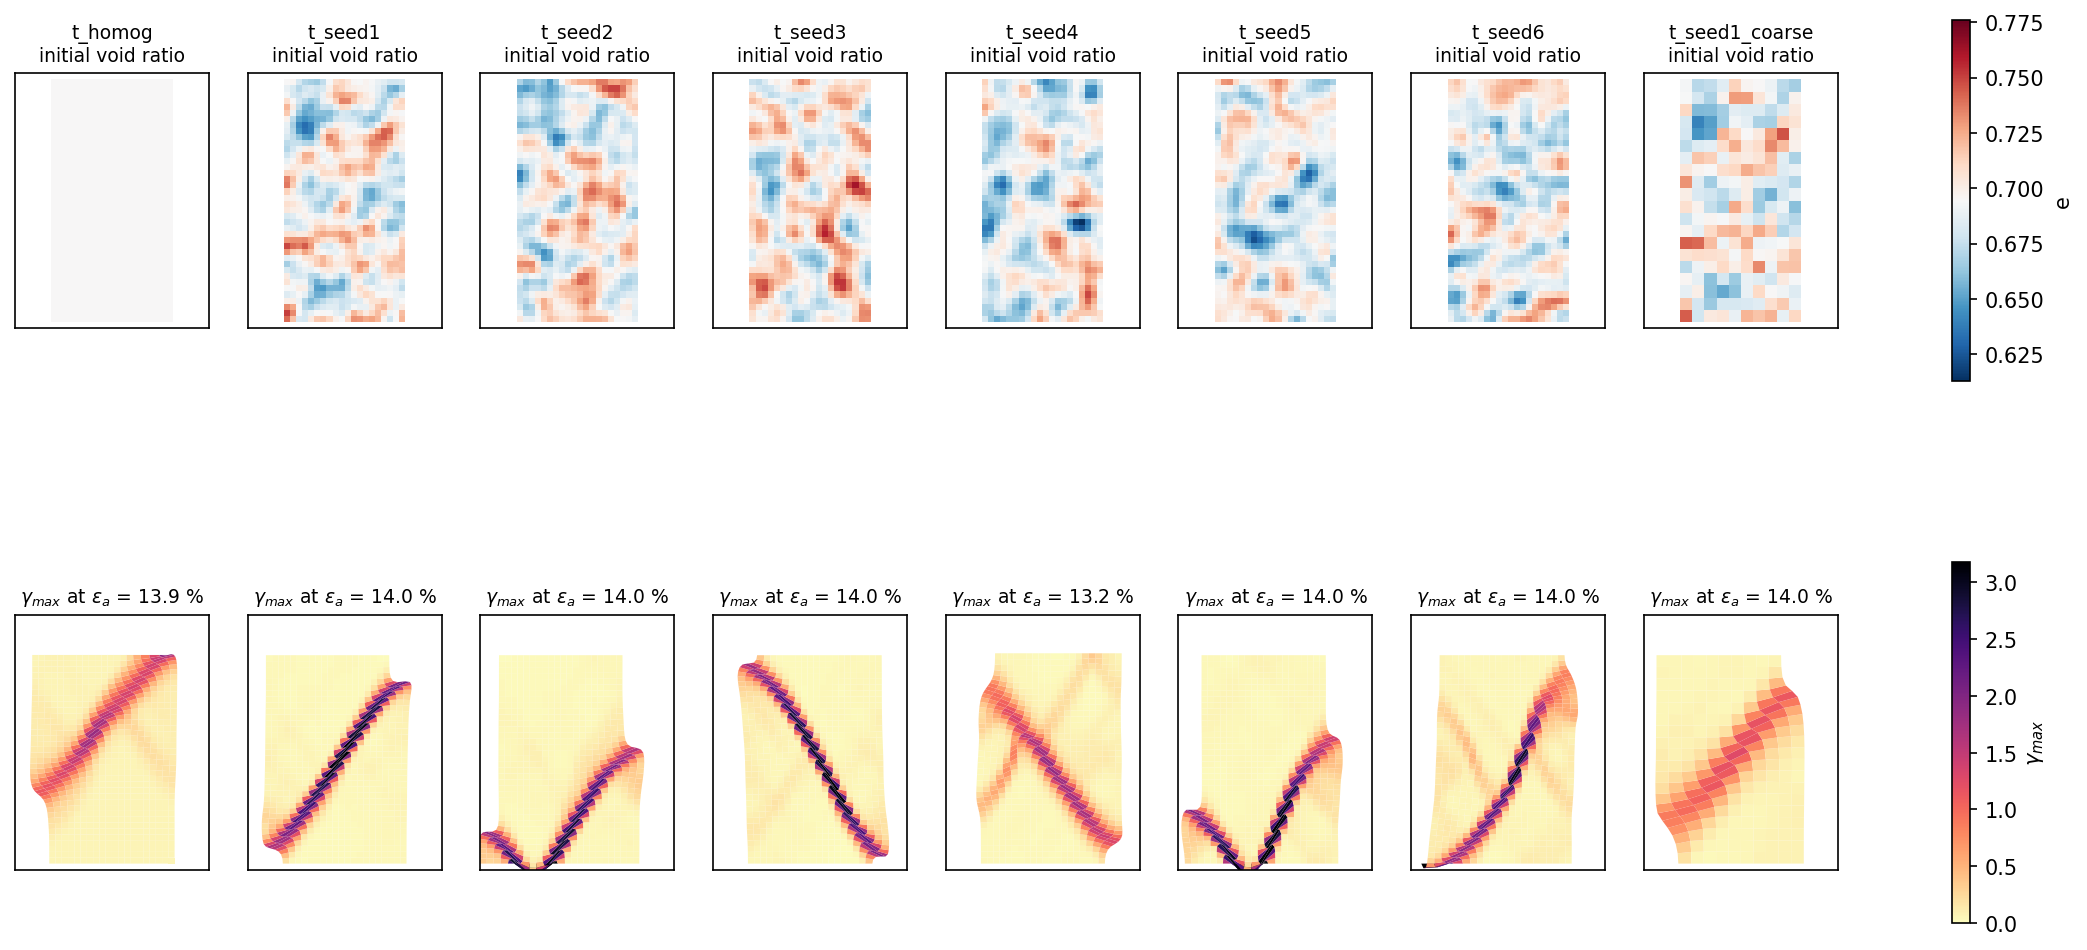
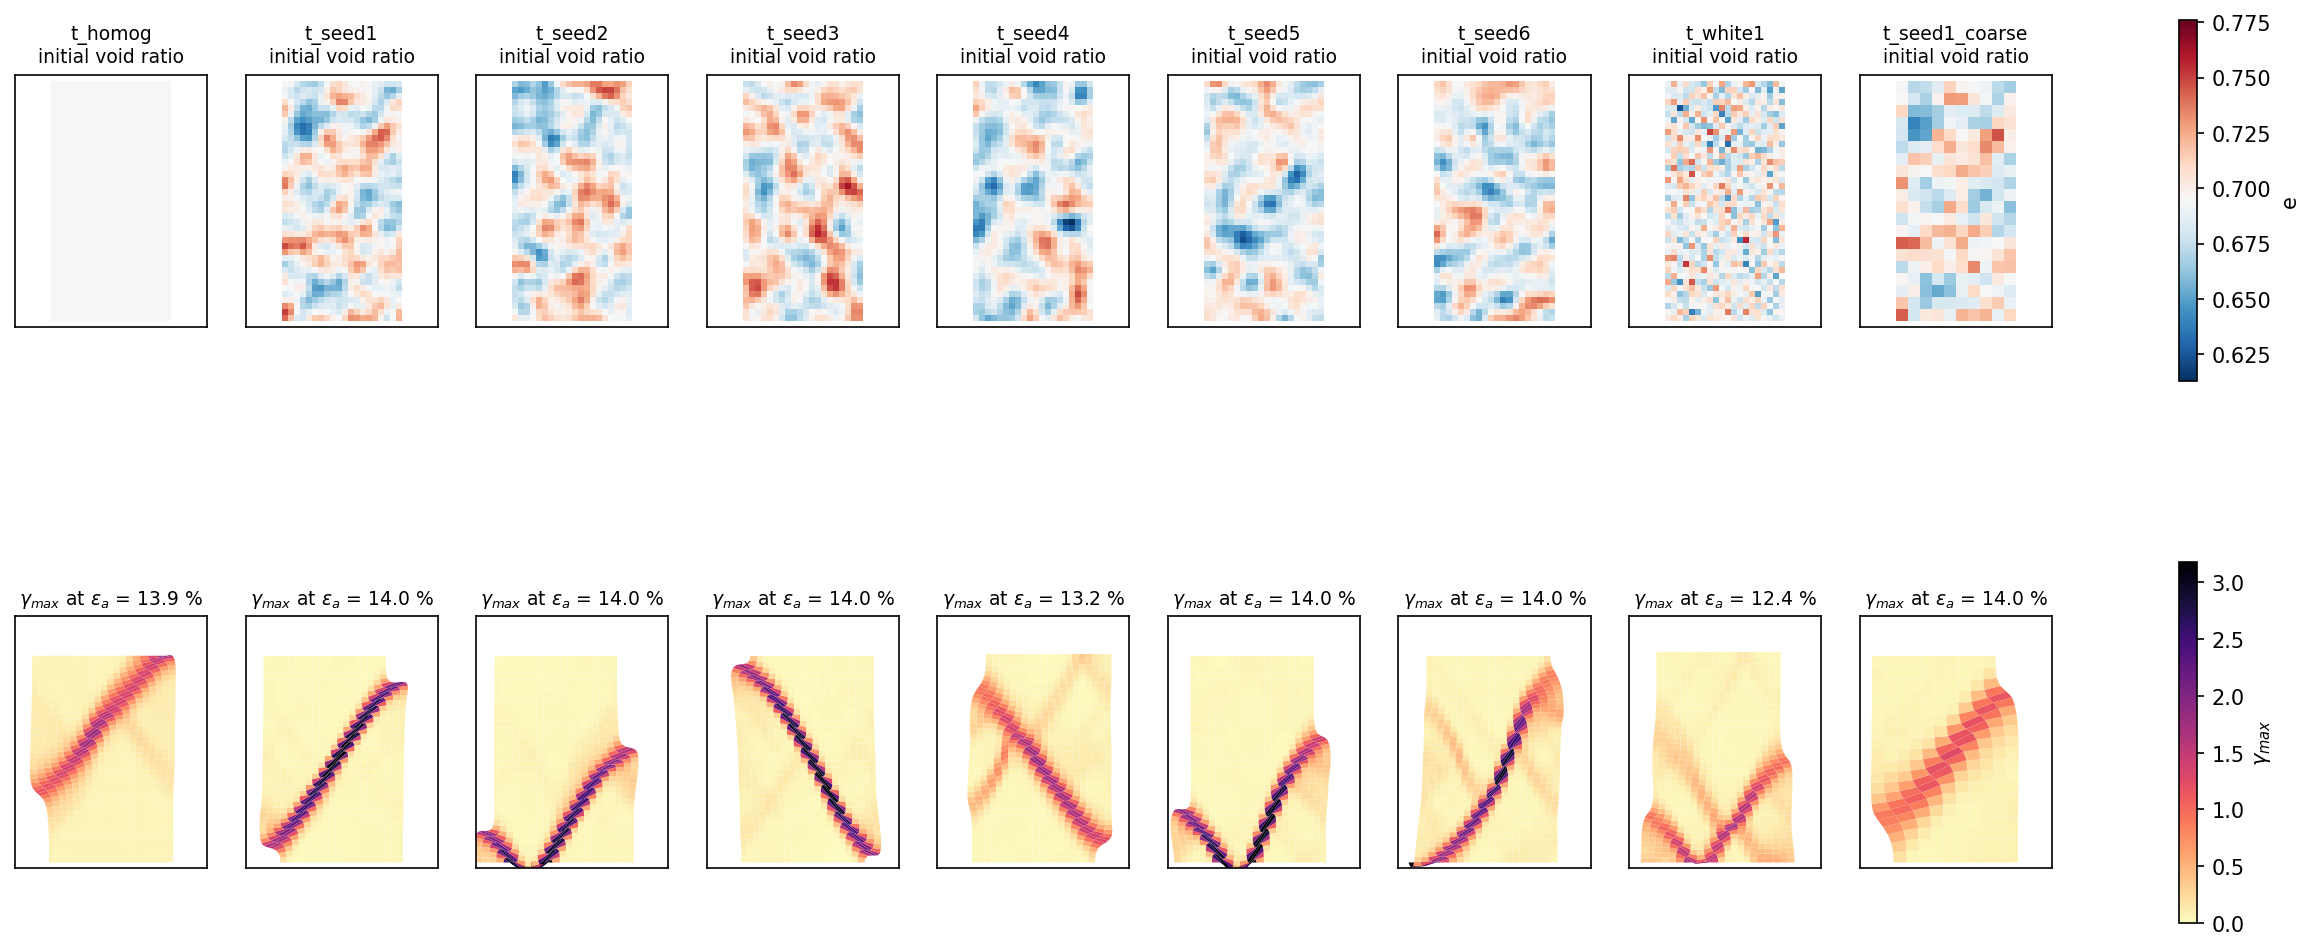
test(WP-238): biaxial post-peak, white-noise case added

diff --git a/Ladruno_files/testbed/sanisand_void_ratio_biaxial/README.md b/Ladruno_files/testbed/sanisand_void_ratio_biaxial/README.md
@@ -68,14 +68,15 @@ runs go through: `results/postpeak_bands.png`, `postpeak_curves.png`, `postpeak_
 | seed 4 | 20x40 | 675.2 | 4.85 | 551.7 | 13.21 (wall budget) | 57 | 143 / 116 |
 | seed 5 | 20x40 | 656.0 | 4.50 | 538.9 | 14.00 | 53 | 0 / 0 |
 | seed 6 | 20x40 | 689.8 | 3.91 | 565.7 | 14.00 | 77 | 0 / 0 |
+| white noise | 20x40 | 687.6 | 5.68 | 591.5 | 12.40 (wall budget) | 43 | 67 / 0 |
 | seed 1 | 10x20 | 742.1 | 5.47 | 671.2 | 14.00 | 4 | 0 / 0 |
 
-(Of 3200 Gauss points on 20x40, 800 on 10x20. The white-noise case was still running at this commit.)
+(Of 3200 Gauss points on 20x40, 800 on 10x20.)
 
 - Every case forms one through-going band and softens; the six seeds lose 17 to 18 % of their peak
-  by 14 %. Six of eight runs needed no relaxed step at all.
-- The homogeneous and seed 4 curves are NOT clean: they oscillate by tens of kPa after the peak,
-  took 8 h, and accepted steps at up to 10x the unbalance tolerance (0.1 kN). Read them as a trend.
+  by 14 %. Six of nine runs needed no relaxed step at all.
+- The homogeneous, seed 4 and white-noise runs are NOT clean: they hit the 8 h wall budget; the
+  first two oscillate by tens of kPa after the peak and accepted steps at up to 10x the unbalance tolerance (0.1 kN). Read them as a trend.
 - The post-peak slope is mesh dependent, as expected of a local softening model: seed 1 ends at
   495 kPa on 20x40 and 671 kPa on 10x20. Nothing here regularises the band width.
 - The separated points sit in the band. The cutoff was designed for footing edges (WP-152); inside a

diff --git a/Ladruno_files/testbed/sanisand_void_ratio_biaxial/results/postpeak_summary.md b/Ladruno_files/testbed/sanisand_void_ratio_biaxial/results/postpeak_summary.md
@@ -7,4 +7,5 @@
 | t_seed4 | 20x40 | 0.0207 | 675.2 | 4.85 | 551.7 | 13.21 | 0.112 | 6.6 | stopped: wall budget 28800 s at eps_a = 0.13210 |
 | t_seed5 | 20x40 | 0.0185 | 656.0 | 4.50 | 538.9 | 14.00 | 0.068 | 12.2 | completed |
 | t_seed6 | 20x40 | 0.0194 | 689.8 | 3.91 | 565.7 | 14.00 | 0.086 | 10.4 | completed |
+| t_white1 | 20x40 | 0.0197 | 687.6 | 5.67 | 591.5 | 12.40 | 0.125 | 8.4 | stopped: wall budget 28800 s at eps_a = 0.12401 |
 | t_seed1_coarse | 10x20 | 0.0204 | 742.1 | 5.47 | 671.2 | 14.00 | 0.145 | 4.4 | completed |
